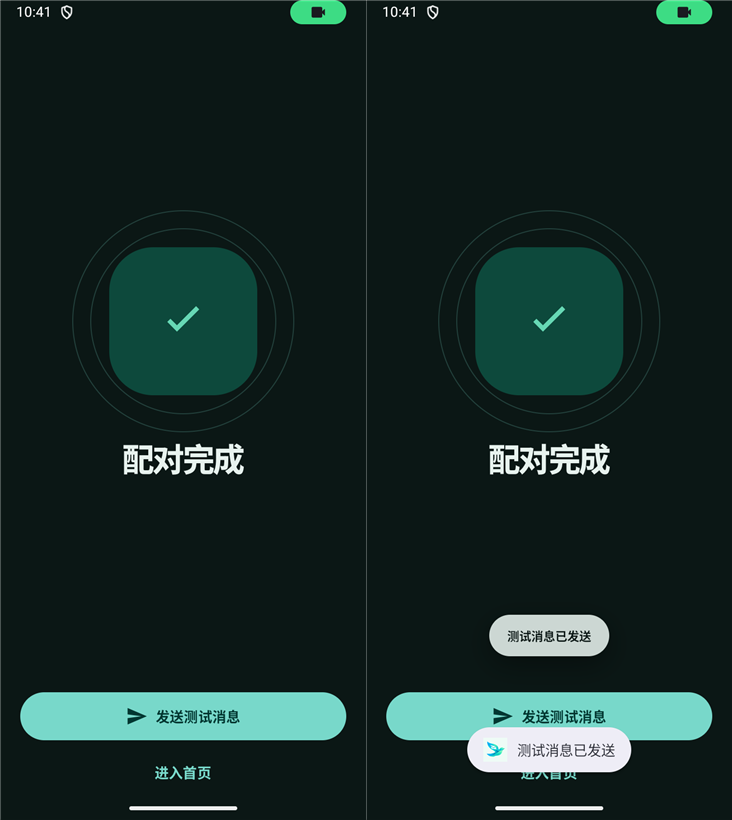
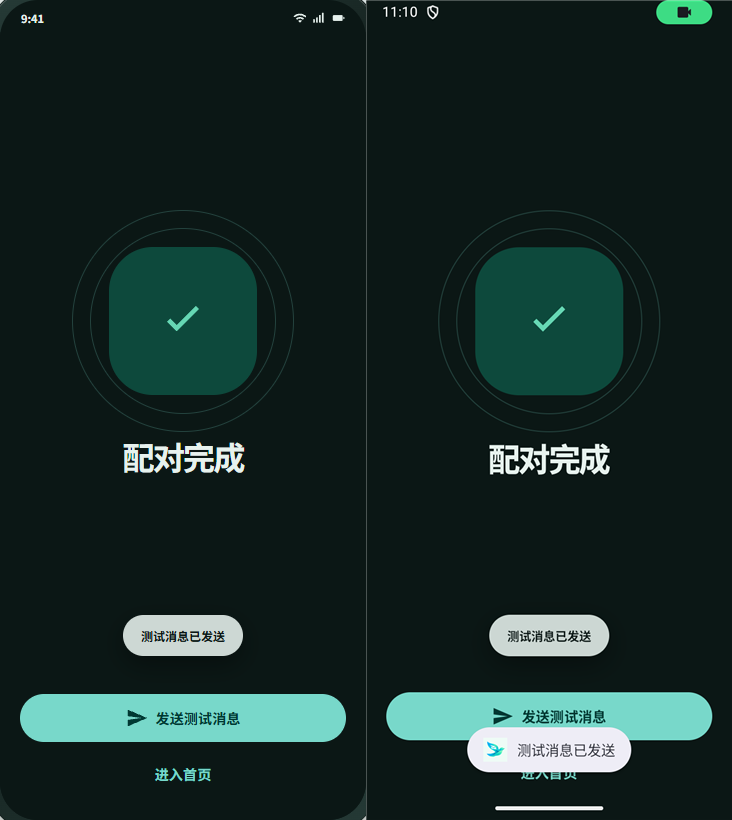
fix: [issue-117] adapt compact Pairing feedback

diff --git a/app/src/main/kotlin/com/buddylabs/pinglide/ui/components/PairingTestAction.kt b/app/src/main/kotlin/com/buddylabs/pinglide/ui/components/PairingTestAction.kt
@@ -63,7 +63,10 @@ private const val TEST_NOTICE_MILLIS = 4_000L
 @Composable
 internal fun PairingTestAction(
     action: TestMessageAction,
-    content: @Composable (button: @Composable () -> Unit, notice: @Composable () -> Unit) -> Unit
+    content: @Composable (
+        button: @Composable () -> Unit,
+        notice: @Composable (bottomOffset: Dp?) -> Unit
+    ) -> Unit
 ) {
     val state by action.state.collectAsState()
     val context = LocalContext.current
@@ -85,17 +88,24 @@ internal fun PairingTestAction(
                 )
             }
         },
-        {
+        { bottomOffset ->
             state.outcome?.let { delivery ->
-                PairingTestNotice(
-                    message = testMessageFeedbackText(delivery),
-                    anchor = null,
-                    headerBottom = 0f,
-                    alignBottom = false,
-                    bottomOffset = 140.dp,
-                    modifier = Modifier.fillMaxSize(),
-                    accessible = true
-                )
+                val message = testMessageFeedbackText(delivery)
+                if (bottomOffset == null) {
+                    Box(Modifier.fillMaxWidth(), contentAlignment = Alignment.Center) {
+                        PairingTestNoticePill(message, accessible = true, modifier = Modifier)
+                    }
+                } else {
+                    PairingTestNotice(
+                        message = message,
+                        anchor = null,
+                        headerBottom = 0f,
+                        alignBottom = false,
+                        bottomOffset = bottomOffset,
+                        modifier = Modifier.fillMaxSize(),
+                        accessible = true
+                    )
+                }
             }
         }
     )
@@ -234,36 +244,9 @@ private fun PairingTestNotice(
     modifier: Modifier,
     accessible: Boolean = false
 ) {
-    val colors = MaterialTheme.colorScheme
-    val shadowColor = if (isSystemInDarkTheme()) Color(0x61000000) else Color(0x260A1210)
     Layout(
         modifier = modifier,
-        content = {
-            Text(
-                message,
-                Modifier.padding(horizontal = 24.dp)
-                    .widthIn(max = 280.dp)
-                    .dropShadow(
-                        CircleShape,
-                        Shadow(24.dp, shadowColor, offset = DpOffset(0.dp, 8.dp))
-                    )
-                    .background(colors.onSurface.copy(alpha = 0.88f), CircleShape)
-                    .semantics {
-                        if (accessible) {
-                            liveRegion = LiveRegionMode.Polite
-                        } else {
-                            hideFromAccessibility()
-                        }
-                    }
-                    .padding(horizontal = 18.dp, vertical = 12.dp),
-                color = colors.surface,
-                style = TextStyle(
-                    fontSize = 12.sp,
-                    fontWeight = FontWeight(650),
-                    textAlign = TextAlign.Center
-                )
-            )
-        }
+        content = { PairingTestNoticePill(message, accessible) }
     ) { measurables, constraints ->
         val notice = measurables.single().measure(constraints.copy(minWidth = 0, minHeight = 0))
         layout(constraints.maxWidth, constraints.maxHeight) {
@@ -279,6 +262,38 @@ private fun PairingTestNotice(
             notice.placeRelative((constraints.maxWidth - notice.width) / 2, visibleTop)
         }
     }
+}
+
+@Composable
+private fun PairingTestNoticePill(
+    message: String,
+    accessible: Boolean,
+    modifier: Modifier = Modifier.padding(horizontal = 24.dp).widthIn(max = 280.dp)
+) {
+    val colors = MaterialTheme.colorScheme
+    val shadowColor = if (isSystemInDarkTheme()) Color(0x61000000) else Color(0x260A1210)
+    Text(
+        message,
+        modifier.dropShadow(
+            CircleShape,
+            Shadow(24.dp, shadowColor, offset = DpOffset(0.dp, 8.dp))
+        )
+            .background(colors.onSurface.copy(alpha = 0.88f), CircleShape)
+            .semantics {
+                if (accessible) {
+                    liveRegion = LiveRegionMode.Polite
+                } else {
+                    hideFromAccessibility()
+                }
+            }
+            .padding(horizontal = 18.dp, vertical = 12.dp),
+        color = colors.surface,
+        style = TextStyle(
+            fontSize = 12.sp,
+            fontWeight = FontWeight(650),
+            textAlign = TextAlign.Center
+        )
+    )
 }
 
 private val testMessageLabels = mapOf(

diff --git a/app/src/androidTest/kotlin/com/buddylabs/pinglide/ui/pairing/PairingSuccessScreenTest.kt b/app/src/androidTest/kotlin/com/buddylabs/pinglide/ui/pairing/PairingSuccessScreenTest.kt
@@ -62,6 +62,16 @@ class PairingSuccessScreenTest {
         compose.onNodeWithText(
             "Sending…"
         ).performScrollTo().assertIsDisplayed().assertIsNotEnabled()
+        response.complete(TestMessageOutcome("My device", TestMessageResult.Rejected))
+        val notice = rejectionNotice().performScrollTo().assertIsDisplayed()
+        val noticeBounds = notice.getUnclippedBoundsInRoot()
+        assertTrue("Notice top: $noticeBounds", noticeBounds.top >= bottom - 120.dp - 1.dp)
+        assertTrue("Notice bottom: $noticeBounds", noticeBounds.bottom <= bottom + 1.dp)
+        val send = compose.onNodeWithText("Send test message")
+        assertTrue(noticeBounds.bottom <= send.getUnclippedBoundsInRoot().top)
+        send.performScrollTo().assertIsDisplayed().assertIsEnabled()
+            .performTouchInput { click() }
+        compose.runOnIdle { assertEquals(2, sends) }
         compose.onNodeWithText("Go to Home").performScrollTo().assertIsDisplayed()
             .performTouchInput { click() }
         compose.runOnIdle { assertEquals(1, leaves) }
@@ -80,11 +90,7 @@ class PairingSuccessScreenTest {
         send.performClick()
         compose.onNodeWithText("Sending…").assertIsNotEnabled()
         response.complete(TestMessageOutcome("My device", TestMessageResult.Rejected))
-        val message = "My device: Test message was not sent: delivery was rejected"
-        val notice = compose.onNode(
-            hasText(message) and
-                SemanticsMatcher.expectValue(SemanticsProperties.LiveRegion, LiveRegionMode.Polite)
-        ).assertIsDisplayed()
+        val notice = rejectionNotice().assertIsDisplayed()
         assertTrue(notice.getUnclippedBoundsInRoot().bottom < sendBounds.top)
         assertEquals(sendBounds, send.assertIsEnabled().getUnclippedBoundsInRoot())
         assertEquals(homeBounds, home.getUnclippedBoundsInRoot())
@@ -98,6 +104,11 @@ class PairingSuccessScreenTest {
         hasText(
             "Pairing complete"
         ) and SemanticsMatcher.keyIsDefined(SemanticsProperties.Heading) and
+            SemanticsMatcher.expectValue(SemanticsProperties.LiveRegion, LiveRegionMode.Polite)
+    )
+
+    private fun rejectionNotice() = compose.onNode(
+        hasText("My device: Test message was not sent: delivery was rejected") and
             SemanticsMatcher.expectValue(SemanticsProperties.LiveRegion, LiveRegionMode.Polite)
     )
 

diff --git a/app/src/main/kotlin/com/buddylabs/pinglide/ui/pairing/PairingResultLayout.kt b/app/src/main/kotlin/com/buddylabs/pinglide/ui/pairing/PairingResultLayout.kt
@@ -11,8 +11,14 @@ import androidx.compose.foundation.layout.padding
 import androidx.compose.foundation.rememberScrollState
 import androidx.compose.foundation.verticalScroll
 import androidx.compose.runtime.Composable
+import androidx.compose.runtime.getValue
+import androidx.compose.runtime.mutableIntStateOf
+import androidx.compose.runtime.remember
+import androidx.compose.runtime.setValue
 import androidx.compose.ui.Alignment
 import androidx.compose.ui.Modifier
+import androidx.compose.ui.layout.onSizeChanged
+import androidx.compose.ui.platform.LocalDensity
 import androidx.compose.ui.semantics.paneTitle
 import androidx.compose.ui.semantics.semantics
 import androidx.compose.ui.unit.Dp
@@ -25,12 +31,15 @@ internal fun PairingResultLayout(
     bodyBottomPadding: Dp,
     body: @Composable () -> Unit,
     actions: @Composable () -> Unit,
-    overlay: @Composable () -> Unit = {}
+    feedback: @Composable (bottomOffset: Dp?) -> Unit = {}
 ) {
     ScreenLayout {
         BoxWithConstraints(Modifier.weight(1f).fillMaxWidth()) {
+            val scroll = rememberScrollState()
+            val needsScroll = scroll.maxValue > 0
+            var actionsHeight by remember { mutableIntStateOf(0) }
             Column(
-                Modifier.fillMaxWidth().verticalScroll(rememberScrollState())
+                Modifier.fillMaxWidth().verticalScroll(scroll)
                     .heightIn(min = maxHeight).height(IntrinsicSize.Min)
                     .semantics { paneTitle = title }
             ) {
@@ -42,11 +51,17 @@ internal fun PairingResultLayout(
                 ) {
                     body()
                 }
-                Column(verticalArrangement = Arrangement.spacedBy(8.dp)) {
+                Column(
+                    Modifier.onSizeChanged { actionsHeight = it.height },
+                    verticalArrangement = Arrangement.spacedBy(8.dp)
+                ) {
+                    if (needsScroll) feedback(null)
                     actions()
                 }
             }
-            overlay()
+            if (!needsScroll) {
+                feedback(with(LocalDensity.current) { actionsHeight.toDp() } + 36.dp)
+            }
         }
     }
 }

diff --git a/app/src/main/kotlin/com/buddylabs/pinglide/ui/pairing/PairingSuccessScreen.kt b/app/src/main/kotlin/com/buddylabs/pinglide/ui/pairing/PairingSuccessScreen.kt
@@ -64,7 +64,7 @@ internal fun PairingSuccessScreen(action: TestMessageAction, onHome: () -> Unit)
                     Text(stringResource(R.string.pairing_home), fontWeight = FontWeight.Bold)
                 }
             },
-            overlay = notice
+            feedback = notice
         )
     }
 }

diff --git a/docs/implementation/pairing-success.md b/docs/implementation/pairing-success.md
@@ -43,15 +43,17 @@ stationary actions, with the existing native success Toast retained. The
 notice honors Android's recommended accessibility timeout; failure copy
 continues to identify the target and specific result.
 
-| Theme | Before and during simulated success feedback |
+| Theme | Approved feedback prototype and corrected Android |
 | --- | --- |
 | Light | [Comparison](pairing-success-evidence/light-feedback-comparison.png) |
 | Dark | [Comparison](pairing-success-evidence/dark-feedback-comparison.png) |
 
-These captures use the actual navigation host with simulated service
-responses at the same locale and viewport as the original comparisons.
+The left side is cropped from the approved
+[received feedback reference](../ui-prototype/shots/03-test-received.png);
+the right side shows the current Android navigation host with simulated
+service responses, in Simplified Chinese at 366 × 820 dp on API 37.
 The camera privacy indicator and the lower Toast are system-owned UI.
-The app's feedback pill does not shift either action.
+The app's feedback pill does not shift either action when content fits.
 
 `PairingIdentityProgressTest` now enters through real onboarding and Home
 navigation, verifies the newly activated target, and checks that Enter Home
@@ -68,3 +70,27 @@ onboarding navigation regression also passed with evidence capture in
 light and dark themes. Debug and release Kotlin compilation, debug and
 instrumentation APK assembly, `qualityCheck`, and all 46 JVM tests passed.
 The complete emulator suite was not repeated for this review fix.
+
+## Second review fixes
+
+Feedback now follows the measured result layout: when content fits,
+the pill is positioned above the actual action height, preserving the
+approved gap and stationary controls. When the result scrolls, the notice
+is part of that same scrollable content above the actions, with the
+available width for enlarged or multiline feedback. It cannot cover the
+heading or controls. The timeout and native success Toast are unchanged.
+
+The extended compact English regression completes a simulated rejection at
+200% font scale in a 120 dp usable viewport, scrolls the complete notice
+into view, verifies that it precedes both actions, and operates Send and
+Enter Home after completion. The regression failed on the old overlay
+because it had no scrollable parent. Both feedback comparisons above were
+refreshed from the approved prototype and the corrected Android screen.
+No motion behavior changed.
+
+Second review verification: all 74 selected emulator tests passed (33
+Pairing and 41 Home readiness/target test-message tests). The four focused
+success/failure layout tests and the onboarding evidence regression in
+both themes passed. Debug and release Kotlin compilation, both APK
+assemblies, `qualityCheck`, and all 46 JVM tests passed. The complete
+emulator suite was not repeated.
